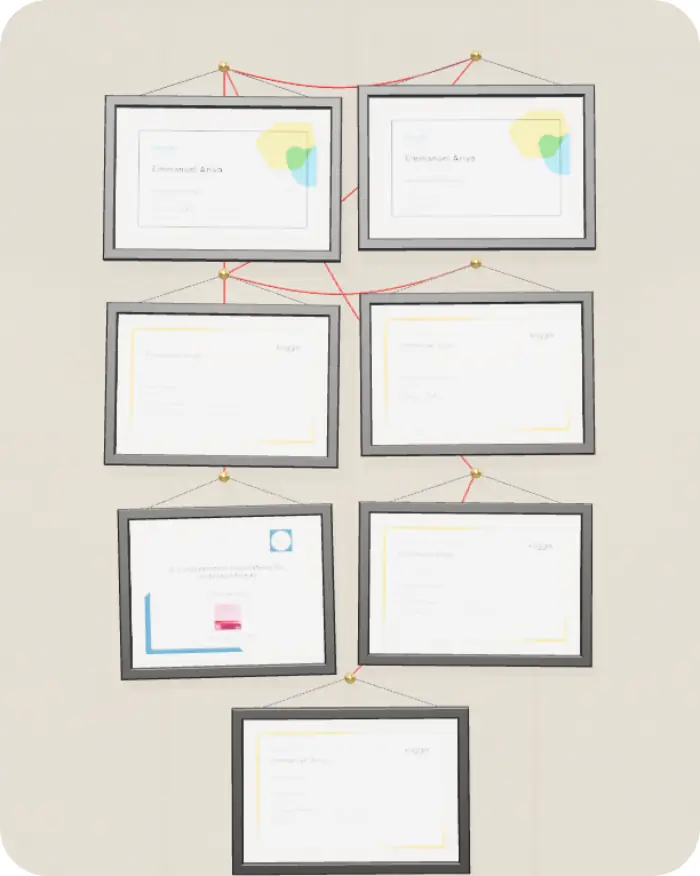
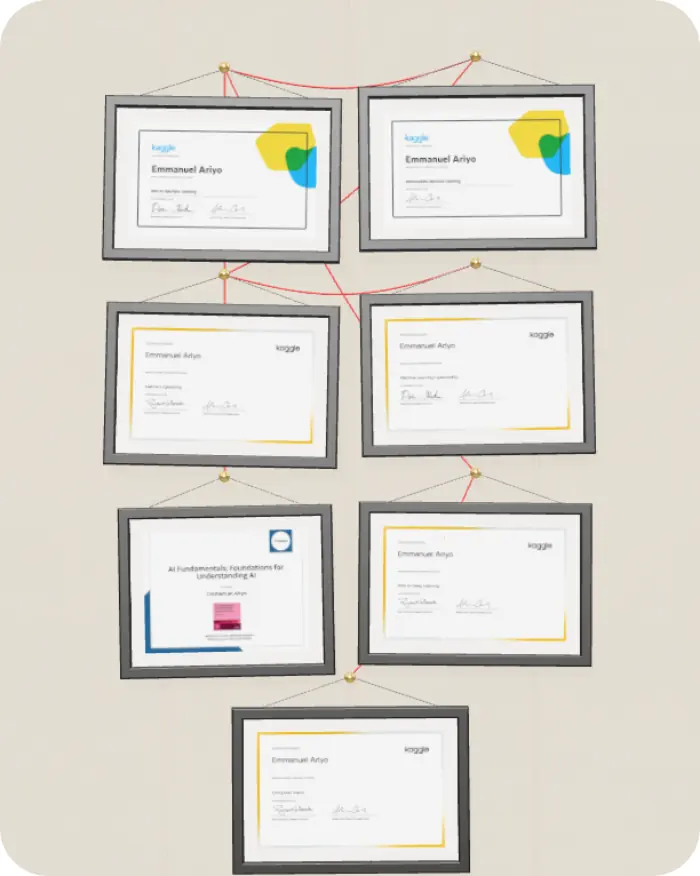
Certificates readable: true-colour prints, softer lights, black frames. Hero: remove fades, original glow, darker text only

diff --git a/components/three/certs/wallStage.ts b/components/three/certs/wallStage.ts
@@ -60,7 +60,7 @@ export function mountWall(el: HTMLElement, items: WallItem[], opts: { dark: bool
   /* light: a soft wash plus gallery spots from above */
   const hemi = new THREE.HemisphereLight(0xfff5e8, 0x6b5a4a, 0.7);
   scene.add(hemi);
-  const key = new THREE.DirectionalLight(0xfff0dc, 1.6);
+  const key = new THREE.DirectionalLight(0xfff0dc, 1.2);
   key.position.set(-3, 7, 8);
   key.castShadow = true;
   key.shadow.mapSize.set(2048, 2048);
@@ -70,7 +70,7 @@ export function mountWall(el: HTMLElement, items: WallItem[], opts: { dark: bool
   scene.add(key);
   const spots: THREE.SpotLight[] = [];
   for (const x of [-4.6, -1.5, 1.7, 4.8]) {
-    const s = new THREE.SpotLight(0xffe2b8, 14, 14, 0.42, 0.75, 1.6);
+    const s = new THREE.SpotLight(0xffe2b8, 6, 14, 0.42, 0.8, 1.6);
     s.position.set(x, 5.6, 3.2);
     s.target.position.set(x, 0, 0);
     scene.add(s, s.target);
@@ -104,9 +104,9 @@ export function mountWall(el: HTMLElement, items: WallItem[], opts: { dark: bool
   scene.add(floorShade);
 
   /* frames */
-  const mMould = new THREE.MeshPhysicalMaterial({ color: 0x0e0c0b, roughness: 0.55, clearcoat: 0.35, clearcoatRoughness: 0.4, envMapIntensity: 0.5 });
-  const mMat = new THREE.MeshStandardMaterial({ color: 0xfbf8f2, roughness: 0.95 });
-  const mGlass = new THREE.MeshPhysicalMaterial({ color: 0xffffff, roughness: 0.04, metalness: 0, transparent: true, opacity: 0.05, envMapIntensity: 0.7, depthWrite: false });
+  const mMould = new THREE.MeshPhysicalMaterial({ color: 0x050404, roughness: 0.6, clearcoat: 0.25, clearcoatRoughness: 0.45, envMapIntensity: 0.15 });
+  const mMat = new THREE.MeshStandardMaterial({ color: 0xe9e4da, roughness: 0.95 });
+  const mGlass = new THREE.MeshPhysicalMaterial({ color: 0xffffff, roughness: 0.04, metalness: 0, transparent: true, opacity: 0.03, envMapIntensity: 0.4, depthWrite: false });
   const mBrass = new THREE.MeshPhysicalMaterial({ color: 0xd6b06a, metalness: 0.95, roughness: 0.22 });
   const mWire = new THREE.MeshStandardMaterial({ color: 0x8c8c8c, metalness: 0.8, roughness: 0.35 });
   const mThread = new THREE.MeshStandardMaterial({ color: 0xc0262d, roughness: 0.75 });
@@ -151,7 +151,8 @@ export function mountWall(el: HTMLElement, items: WallItem[], opts: { dark: bool
     group.add(back);
     const tex = load(it.image, true);
     textures.push(tex);
-    const pic = new THREE.Mesh(new THREE.PlaneGeometry(iw, ih), new THREE.MeshStandardMaterial({ map: tex, roughness: 0.85 }));
+    // shown at its true colours so the writing stays sharp, whatever the lights are doing
+    const pic = new THREE.Mesh(new THREE.PlaneGeometry(iw, ih), new THREE.MeshBasicMaterial({ map: tex, toneMapped: false, color: 0xf4f4f4 }));
     pic.position.z = 0.03;
     group.add(pic);
     // a thin bevel line where the mount is cut
@@ -282,8 +283,8 @@ export function mountWall(el: HTMLElement, items: WallItem[], opts: { dark: bool
   function setMode(dark: boolean) {
     mWall.color.set(dark ? 0x5a524a : 0xf3ece2);
     hemi.intensity = dark ? 0.25 : 0.7;
-    key.intensity = dark ? 0.7 : 1.6;
-    spots.forEach((s) => (s.intensity = dark ? 26 : 14));
+    key.intensity = dark ? 0.6 : 1.2;
+    spots.forEach((s) => (s.intensity = dark ? 12 : 6));
     renderer.toneMappingExposure = dark ? 0.9 : 1.0;
   }
   setMode(opts.dark);

diff --git a/components/sections/Hero.tsx b/components/sections/Hero.tsx
@@ -111,9 +111,6 @@ export function Hero() {
             aria-hidden
           />
         )}
-        {/* soft fades from the page colour behind the text so it reads over the 3D (no box) */}
-        <div className="pointer-events-none absolute inset-x-0 top-0 h-[48%] bg-gradient-to-b from-background/85 via-background/45 to-transparent md:inset-y-0 md:right-auto md:h-auto md:w-[62%] md:bg-gradient-to-r md:from-background/80 md:via-background/35" style={{ opacity: Math.max(name, cta) }} aria-hidden />
-        <div className="pointer-events-none absolute inset-x-0 bottom-0 h-[52%] bg-gradient-to-t from-background/90 via-background/55 to-transparent md:inset-y-0 md:right-auto md:h-auto md:w-[62%] md:bg-gradient-to-r md:from-background/80 md:via-background/35" style={{ opacity: role }} aria-hidden />
         {/* scroll position marker on the left */}
         <div className="absolute left-4 md:left-[4%] top-1/2 -translate-y-1/2 flex flex-col gap-3" aria-hidden>
           {[0, 1, 2].map((i) => {
@@ -138,7 +135,7 @@ export function Hero() {
             <br />
             Emmanuel
           </h1>
-          <p className="museum-shadow mt-5 max-w-[19rem] text-[13px] md:text-sm leading-relaxed font-medium text-foreground/95">
+          <p className="museum-shadow mt-5 max-w-[19rem] text-[13px] md:text-sm leading-relaxed font-medium text-foreground">
             Machine learning engineer and full-stack developer from Nigeria, building speech and language AI for
             African languages. Scroll to step into my workspace.
           </p>
@@ -156,10 +153,10 @@ export function Hero() {
             &amp; AI engineer
           </h2>
           <div className="mt-6 grid grid-cols-2 gap-6 max-w-md">
-            <p className="museum-shadow text-[12.5px] md:text-[13px] leading-relaxed font-medium text-foreground/95">
+            <p className="museum-shadow text-[12.5px] md:text-[13px] leading-relaxed font-medium text-foreground">
               Scalable web applications and AI systems, from the first commit to production.
             </p>
-            <p className="museum-shadow text-[12.5px] md:text-[13px] leading-relaxed font-medium text-foreground/95">
+            <p className="museum-shadow text-[12.5px] md:text-[13px] leading-relaxed font-medium text-foreground">
               Open-source African language models: speech recognition, text to speech and translation.
             </p>
           </div>

diff --git a/app/globals.css b/app/globals.css
@@ -211,8 +211,8 @@
   letter-spacing: -0.015em !important;
   line-height: 0.98 !important;
 }
-.museum-shadow { text-shadow: 0 0 1px rgba(255, 255, 255, 0.9), 0 0 10px rgba(255, 255, 255, 0.95), 0 0 28px rgba(255, 255, 255, 0.9), 0 0 50px rgba(255, 255, 255, 0.7); }
-.dark .museum-shadow { text-shadow: 0 0 1px rgba(0, 0, 0, 0.9), 0 0 10px rgba(0, 0, 0, 0.9), 0 0 28px rgba(0, 0, 0, 0.85), 0 0 50px rgba(0, 0, 0, 0.6); }
+.museum-shadow { text-shadow: 0 2px 30px rgba(255, 255, 255, 0.85); }
+.dark .museum-shadow { text-shadow: 0 2px 30px rgba(0, 0, 0, 0.75); }
 
 /* The line under every section heading is the subheading: EB Garamond, one size everywhere */
 .section-heading + p {
